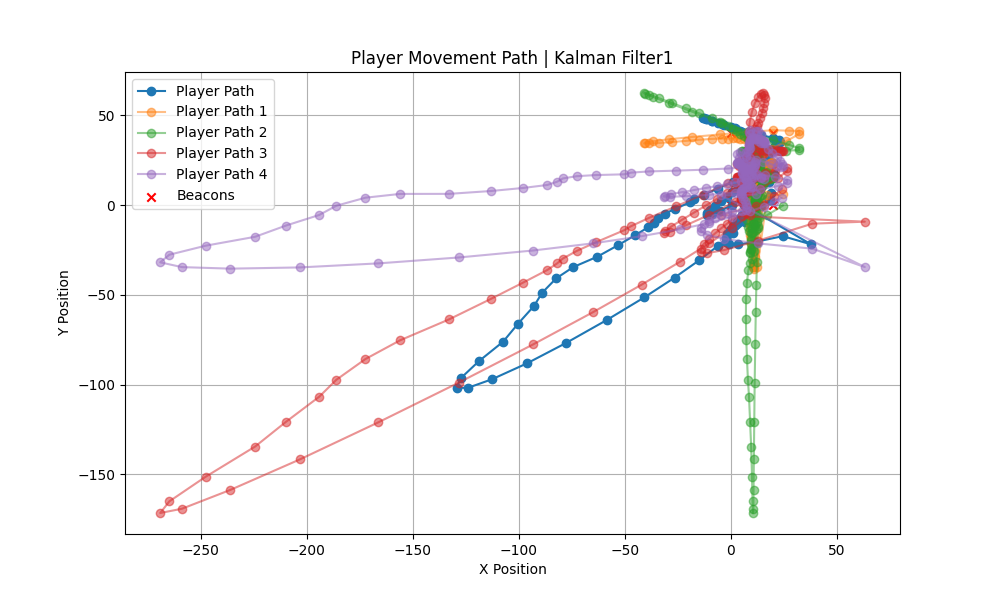
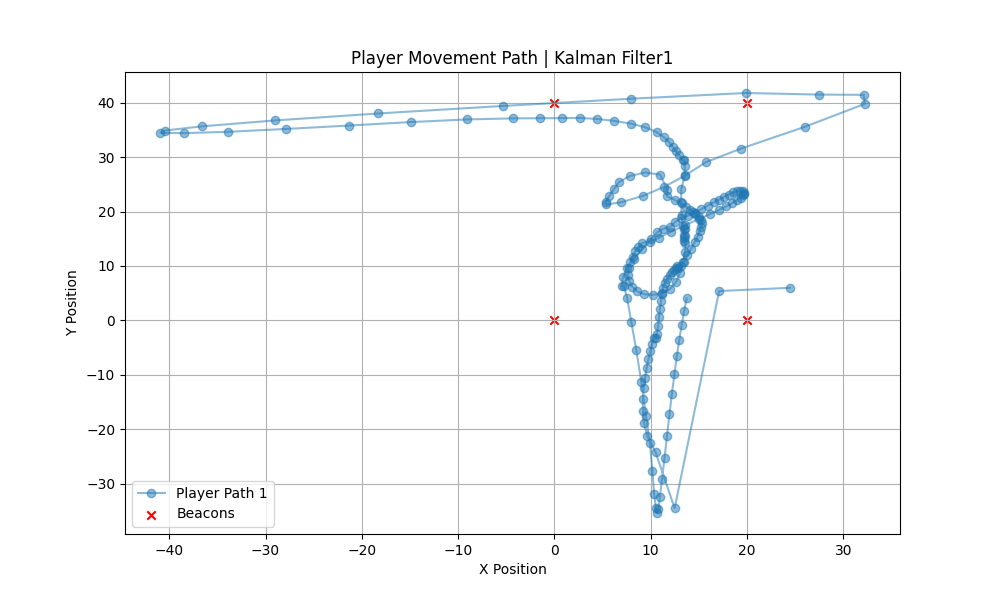
"CM"

diff --git a/final-postprocessing-pipeline.py b/final-postprocessing-pipeline.py
@@ -10,6 +10,7 @@ Uses a pandas df to store the data, and a matplotlib animation to animate the da
 """
 
 from analyze_ftm_data import analyze_ftm_data
+from abs_error import *
 
 import pandas as pd
 import numpy as np
@@ -178,6 +179,34 @@ def removeOutliers(df, window_size=10, residual_variance_threshold=1.5):
 
     return df
 
+def distanceCorrection(df):
+    """
+    Corrects the distance data in the dataframe using the data from the compass
+    If the player moves more than 10m away from the beacon in a second then the data is incorrect and should be corrected
+    """
+    df = df.copy()  
+
+    for column in df.columns:
+        if not column.startswith('b'):
+            continue
+
+        # Calculate the difference between consecutive measurements
+        df[f'{column}_diff'] = df[column].diff().abs()
+
+        # Identify the outliers where the difference is greater than 10 meters
+        outliers = df[f'{column}_diff'] > 9
+
+        # Replace outliers with NaN
+        df.loc[outliers, column] = np.nan
+
+        # Interpolate to fill NaN values
+        df[column].interpolate(method='linear', inplace=True)
+
+        # Drop the temporary diff column
+        df.drop(columns=[f'{column}_diff'], inplace=True)
+
+    return df
+
 # need to replace with the actual kalman in Final-kalman
 # Need to replace with acc-bound
 def kalmanFilter(df, x=np.array([10.0, 0]), P=np.diag([30, 16]), R=np.array([[5.]]), Q=Q_discrete_white_noise(dim=2, dt=0.3, var=2.35), dt=0.3):
@@ -247,14 +276,25 @@ def kalmanFilter(df, x=np.array([10.0, 0]), P=np.diag([30, 16]), R=np.array([[5.
 
     return df
 
-def processData(filename):
-    # Submit the tests we want to run on our data in order [("testName", testFunction)]
-    # ("EMA", smoothData)
-    # ("Kalman Filter", kalmanFilter)
-    # ("Outlier Removal", removeOutliers)
-    # ("Plot", plotPlayers)
-    tests = [("Outlier Removal", removeOutliers), ("Kalman Filter", kalmanFilter), ("EMA", smoothData)]
+# Plots the abolsute error of the measurements compared to the ground truth
+def absError(measurements, title="", gt="jan17-groundtruth.csv", plot=False):
+    measurements = measurements.copy()
 
+    script_dir = os.path.dirname(os.path.abspath(__file__))  
+ 
+    datafile = os.path.join(script_dir, "data", gt)  
+    if not os.path.exists(datafile):
+        print(f"File not found: {datafile}")
+    groundtruth = pd.read_csv(datafile)
+
+    filtered_data, mean_error = calculate_abs_error(groundtruth, measurements)
+
+    plot_abs_error(filtered_data['timestamp'], filtered_data['abs_error'], mean_error, plot=plot, title=title)
+
+    return filtered_data
+
+def processData(filename, tests):
+    
     # Load initial DF
     initalDf = loadData(os.path.join(os.getcwd(), filename))
     dfs = [initalDf]
@@ -263,9 +303,7 @@ def processData(filename):
     for testname, test in tests:
         df = dfs[-1]
         resultingDF = test(df)
-
         print(f"Test {testname} complete")
-
         # Append the resulting DF to the list of data
         dfs.append(resultingDF)
 
@@ -401,11 +439,11 @@ def plotPlayers(data, beacons, plot=True):
 
     # Plot player positions
     plt.figure(figsize=(10, 6))
-    plt.plot(player_positions[:, 0], player_positions[:, 1], 'o-', label='Player Path')
+    # plt.plot(player_positions[:, 0], player_positions[:, 1], 'o-', label='Player Path')
     plt.plot(player_positions1[:, 0], player_positions1[:, 1], 'o-', label='Player Path 1', alpha=0.5)
-    plt.plot(player_positions2[:, 0], player_positions2[:, 1], 'o-', label='Player Path 2', alpha=0.5)
-    plt.plot(player_positions3[:, 0], player_positions3[:, 1], 'o-', label='Player Path 3', alpha=0.5)
-    plt.plot(player_positions4[:, 0], player_positions4[:, 1], 'o-', label='Player Path 4', alpha=0.5)
+    # plt.plot(player_positions2[:, 0], player_positions2[:, 1], 'o-', label='Player Path 2', alpha=0.5)
+    # plt.plot(player_positions3[:, 0], player_positions3[:, 1], 'o-', label='Player Path 3', alpha=0.5)
+    # plt.plot(player_positions4[:, 0], player_positions4[:, 1], 'o-', label='Player Path 4', alpha=0.5)
     plt.scatter(beacons[:, 0], beacons[:, 1], c='red', marker='x', label='Beacons')
     plt.xlabel('X Position')
     plt.ylabel('Y Position')
@@ -424,17 +462,26 @@ def main():
         os.remove(os.path.join(os.getcwd(), 'charts', f))
 
     # Process the data
+    # Submit the tests we want to run on our data in order [("testName", testFunction)]
+    # ("Distance Correction", distanceCorrection)
+    # ("EMA", smoothData)
+    # ("Kalman Filter", kalmanFilter)
+    # ("Outlier Removal", removeOutliers)
+    # ("Plot", plotPlayers)
+    tests = [("Outlier Removal", removeOutliers), ("Kalman Filter", kalmanFilter), ("EMA", smoothData), ("Distance Correction", distanceCorrection)]
+
     csv_filename = "4beaconv1.csv"
-    dfs = processData(csv_filename)
+    dfs = processData(csv_filename,tests)
 
     # Plot the 1d charts
     plot1d(dfs, plot=False)
 
     # Compare to GT Data
-    # Load GT DF
     gt = loadData("GroundyTruthy.csv")
     for df in dfs:
+        print(f"\nAnalyzing {df[0]}")
         analyze_ftm_data(df[1], gt, title=df[0], plot=False)
+        absError(df[1], title=df[0], plot=False)
 
     # Plot the final DFs
     beaconPositions = np.array([[20, 0], [0, 0], [0, 40], [20, 40]])

diff --git a/abs_error.py b/abs_error.py
@@ -31,11 +31,11 @@ def calculate_abs_error(groundtruth, measurements):
 
     return merged, mean_error
 
-def plot_abs_error(timestamps, abs_error, mean_error):
+def plot_abs_error(timestamps, abs_error, mean_error, plot=False, title=""):
 
     plt.figure(figsize=(10, 6))
     plt.plot(timestamps, abs_error, label='Absolute Error', color='blue', marker='o')
-    plt.title('Absolute Error Over Time')
+    plt.title(f'Absolute Error Over Time - {title}')
     plt.xlabel('Time')
     plt.ylabel('Absolute Error (m)')
     plt.grid(True)
@@ -44,7 +44,9 @@ def plot_abs_error(timestamps, abs_error, mean_error):
     text_box = f"Mean Absolute Error: {mean_error: .2f} m"
     plt.figtext(0.15, 0.85, text_box, fontsize=12, bbox=dict(facecolor='white', alpha=0.5))
 
-    plt.show()
+    plt.savefig(os.path.join(os.getcwd(), f'charts/{title}-abserror.png'))
+    if plot: plt.show()
+    plt.close()
 
 def plot_abs_error_percentage(timestamps, abs_error_percentage):
     plt.figure(figsize=(10, 6))
@@ -71,7 +73,7 @@ if __name__ == "__main__":
     groundtruth = pd.read_csv(datafile)
 
     filtered_data, mean_error = calculate_abs_error(groundtruth, measurements)
-    print(filtered_data)
+    # print(filtered_data)
 
     plot_abs_error(filtered_data['timestamp'], filtered_data['abs_error'], mean_error)
-    plot_abs_error_percentage(filtered_data['timestamp'], filtered_data['abs_error_percentage'])
+    # plot_abs_error_percentage(filtered_data['timestamp'], filtered_data['abs_error_percentage'])

diff --git a/analyze_ftm_data.py b/analyze_ftm_data.py
@@ -127,7 +127,7 @@ def analyze_ftm_data(df_meas: pd.DataFrame, df_gt: pd.DataFrame, plot=False, tit
 
     # 6) Save
     df_merged.to_csv("merged_results.csv", index=False)
-    print("Done! Results saved to 'merged_results.csv'.")
+    # print("Done! Results saved to 'merged_results.csv'.")
 
     return df_merged
 
